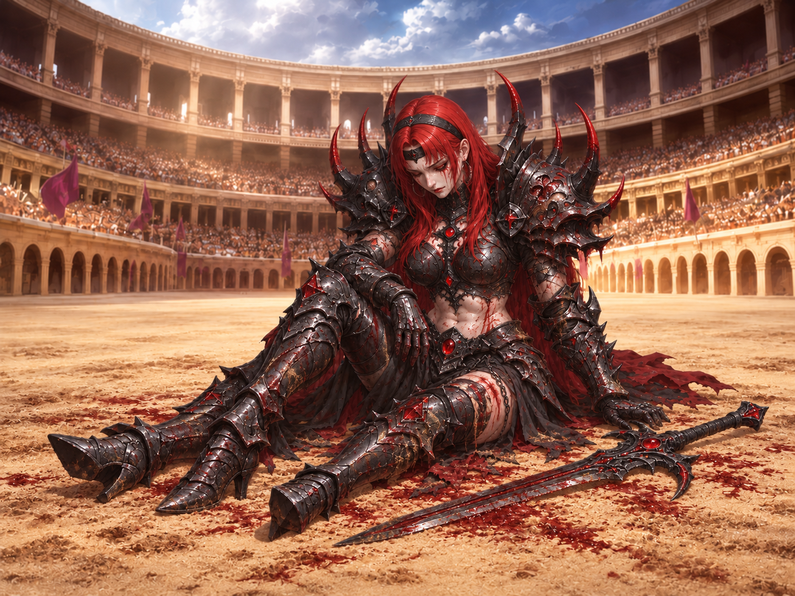
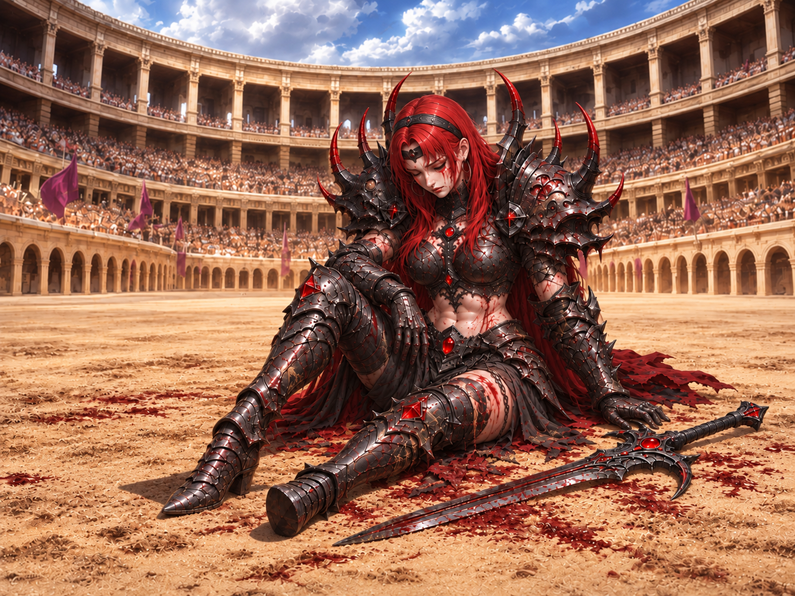
까마귀자리 투사 패배 이미지와 몬스터 부가 상태 수정

diff --git a/docs/NEXT_PATCH_CHECKLIST_20261107_KO.md b/docs/NEXT_PATCH_CHECKLIST_20261107_KO.md
@@ -97,6 +97,10 @@
 
 완료 판정은 최신 적용·출고 기록에 근거한다. 사용자의 실제 화면 전수 검증 완료를 뜻하지 않는다.
 
+## 추가 이미지 수정 · 2026-11-22
+
+- [x] **콜로세움 까마귀자리 투사 패배 이미지의 중복 다리 제거** · 2026-11-28 WORK 및 추적 리소스에 795 × 596 PNG로 반영. 대상 `game/content/pic/mob/defeated/gladiator_champion_corvus.png`. [수정 원본](../records/corvus-defeat-three-leg-20261122/corvus-arena-defeated-leg-fix.png).
+
 ## 추천 편성 순서
 
 1. **작은 후속 패치 묶음** — P01·P02의 확정 불일치, P05 대사 순서, P11·P12 도구 정합, P14의 실제 잔여 번역.
